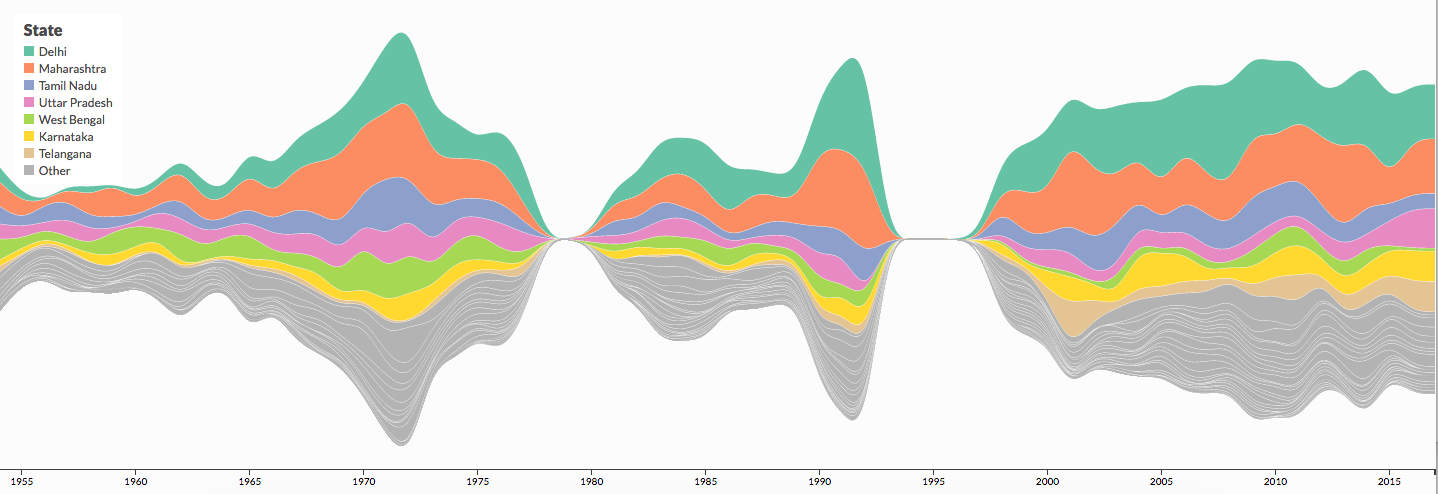
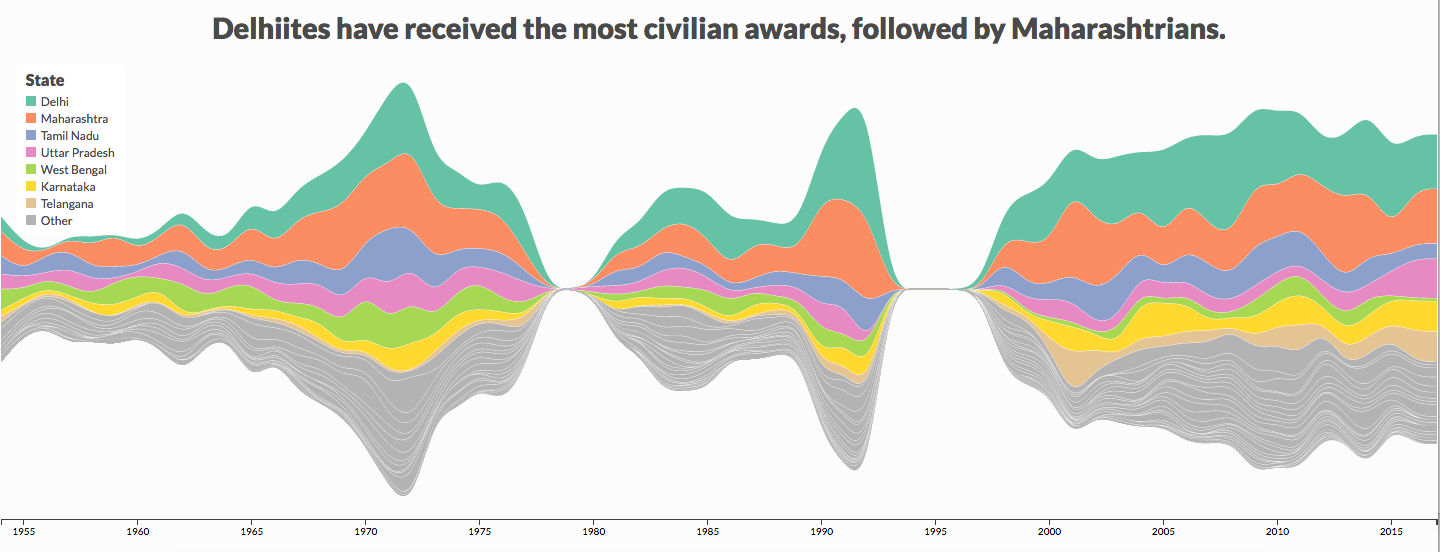
production v1

diff --git a/index.html b/index.html
@@ -8,7 +8,7 @@
     <title>India's civilian awards, a visual history | Hindustan Times</title>
 
     <meta name="description" content="Why do so many Delhiites and Mumbaikars win Padma awards?" />
-    <meta name="keywords" content="Padma awards, Bharat Ratna, Padma Vibhushan, Padma Bhushan, Padma Shri" />
+    <meta name="keywords" content="Padma awards, Bharat Ratna, Padma Vibhushan, Padma Bhushan, Padma Shri, Sachin Tendulkar, Amir Khan, Mother Teresa, Nelson Mandela, Lata Mangeshkar, Yash Chopra, Satyajit Ray, M.S. Subbalakshmi, Kiran Mazumdar-Shaw" />
     <link rel="canonical" content="http://www.hindustantimes.com/static/padmas-visual-history/" />
 
     <!-- facebook -->
@@ -38,7 +38,7 @@
     <!--css-->
     <link rel="stylesheet" href="https://maxcdn.bootstrapcdn.com/bootstrap/3.3.6/css/bootstrap.min.css" integrity="sha384-1q8mTJOASx8j1Au+a5WDVnPi2lkFfwwEAa8hDDdjZlpLegxhjVME1fgjWPGmkzs7" crossorigin="anonymous">
     <link rel="stylesheet" href="css/font-awesome.min.css" />
-    <link rel="stylesheet" href="css/styles.css" />
+    <link rel="stylesheet" href="css/styles.min.css" />
 
     <!--jquery -->
     <script src="https://ajax.googleapis.com/ajax/libs/jquery/3.1.0/jquery.min.js"></script>
@@ -64,13 +64,13 @@
 
       <div class="row">
         <div class="col-md-12 headline">
-          India's civilian awards, a visual history
+          India&rsquo;s civilian awards, a visual history
         </div>
       </div>
 
       <div class="row">
         <div class="col-md-12 byline">
-          By Harry Stevens
+          By Harry Stevens &amp; Aparna Alluri
         </div>
       </div>
 
@@ -82,7 +82,8 @@
 
       <div class="row copy">
         <div class="col-md-offset-3 col-md-6">
-          <p>Nearly every year, the Indian government honors its leading citizens with awards. But who gets them? And what does their distribution tell us about the country and its history?</p>
+          <p>Since 1954, the Indian government has been conferring its highest honours &mdash; from the venerable Padma Shri to the exclusive Bharat Ratna &mdash; on bureaucrats, artists, scientists, engineers, sporting heroes, and political icons. </p>
+          <p>Taken together, the 4,329 awards paint a picture of India&rsquo;s recent history and tell a story about the country&rsquo;s values and priorities.</p>
           <hr />
         </div>
       </div>
@@ -94,7 +95,7 @@
         <div class="col-md-12">
           <div class="row chart-title">
             <div class="col-md-12">
-              Delhiites &amp; Maharashtrians have dominated the awards.
+              Delhiites have received the most awards, followed by Maharashtrians.
             </div>
           </div>
           <div class="row">
@@ -104,15 +105,9 @@
           </div>
           <div class="row copy">
             <div class="col-md-offset-3 col-md-6">
-              <p>
-                Lorem ipsum dolor sit amet. Lorem ipsum dolor sit amet. Lorem ipsum dolor sit amet. Lorem ipsum dolor sit amet. Lorem ipsum dolor sit amet. Lorem ipsum dolor sit amet.
-              </p>
-              <p>
-                Lorem ipsum dolor sit amet. Lorem ipsum dolor sit amet. Lorem ipsum dolor sit amet. Lorem ipsum dolor sit amet. Lorem ipsum dolor sit amet. Lorem ipsum dolor sit amet.
-              </p>
-              <p>
-                Lorem ipsum dolor sit amet. Lorem ipsum dolor sit amet. Lorem ipsum dolor sit amet. Lorem ipsum dolor sit amet. Lorem ipsum dolor sit amet. Lorem ipsum dolor sit amet.
-              </p>
+              <p>With 797 awards, the national capital has bagged more honours than any other state. Only Maharashtra, at 756, comes close to Delhi&rsquo;s tally. Next in line is Tamil Nadu, but it&rsquo;s farther behind with 391 awards. </p>
+              <p>Delhi and Maharashtra have also dominated the honours rather consistently (hover over each color to find out how many states won awards in a given year). </p>
+              <p>There were no awards given out in six years: 1978, 1979 and from 1993-1996. It&rsquo;s likely the <a href="http://www.newindianexpress.com/nation/All-Should-%E2%80%98Learn-Lesson%E2%80%99-From-Aftermath-of-Emergency-Says-Digvijay-Singh/2015/06/25/article2885877.ece">aftermath of the Emergency</a> interrupted the awards in the late 70s. In the mid-90s, it could have been a preoccupied minority government that was busy pushing for economic reforms to stave off bankruptcy.</p>
             </div>
           </div>
         </div>
@@ -126,7 +121,7 @@
       <div class="col-md-12">
         <div class="row chart-title">
           <div class="col-md-12">
-            Foreigners get civilian awards, too.
+            India awards foreigners, too.
           </div>
         </div>
         <div class="row">
@@ -137,15 +132,8 @@
         </div>
         <div class="row copy">
           <div class="col-md-offset-3 col-md-6">
-            <p>
-              Lorem ipsum dolor sit amet. Lorem ipsum dolor sit amet. Lorem ipsum dolor sit amet. Lorem ipsum dolor sit amet. Lorem ipsum dolor sit amet. Lorem ipsum dolor sit amet.
-            </p>
-            <p>
-              Lorem ipsum dolor sit amet. Lorem ipsum dolor sit amet. Lorem ipsum dolor sit amet. Lorem ipsum dolor sit amet. Lorem ipsum dolor sit amet. Lorem ipsum dolor sit amet.
-            </p>
-            <p>
-              Lorem ipsum dolor sit amet. Lorem ipsum dolor sit amet. Lorem ipsum dolor sit amet. Lorem ipsum dolor sit amet. Lorem ipsum dolor sit amet. Lorem ipsum dolor sit amet.
-            </p>
+            <p>Americans have gotten more awards than any foreign nationality, followed by Britons. The number of non-Indian awardees began to climb after 1995, possibly because <a href="https://en.wikipedia.org/wiki/Economic_liberalisation_in_India">opening up India&rsquo;s economy</a> signalled a new era of diplomacy. </p>
+            <p>Foreign winners include Nelson Mandela and Pashtun political activist Abdul Ghaffar Khan. Richard Attenborough and Ben Kingsley both won Padma awards after the release of the film Gandhi. Many of these awards were also given to people of Indian origin, such as Nobel Prize-winning economist Amartya Sen.</p>
           </div>
         </div>
       </div>
@@ -156,7 +144,7 @@
       <div class="col-md-12">
         <div class="row chart-title">
           <div class="col-md-12">
-            Women receive far fewer awards than men do.
+            Most of the awards have gone to men.
           </div>
         </div>
         <div class="row">
@@ -166,15 +154,8 @@
         </div>
         <div class="row copy">
           <div class="col-md-offset-3 col-md-6">
-            <p>
-              Lorem ipsum dolor sit amet. Lorem ipsum dolor sit amet. Lorem ipsum dolor sit amet. Lorem ipsum dolor sit amet. Lorem ipsum dolor sit amet. Lorem ipsum dolor sit amet.
-            </p>
-            <p>
-              Lorem ipsum dolor sit amet. Lorem ipsum dolor sit amet. Lorem ipsum dolor sit amet. Lorem ipsum dolor sit amet. Lorem ipsum dolor sit amet. Lorem ipsum dolor sit amet.
-            </p>
-            <p>
-              Lorem ipsum dolor sit amet. Lorem ipsum dolor sit amet. Lorem ipsum dolor sit amet. Lorem ipsum dolor sit amet. Lorem ipsum dolor sit amet. Lorem ipsum dolor sit amet.
-            </p>
+            <p>Of the 4,329 honours, men have won 3,689 awards while women got 631 awards, which is just less than 15 percent.</p>
+            <p>This isn&rsquo;t surprising, given India&rsquo;s <a href="http://www.hindustantimes.com/editorials/india-must-close-the-gender-gap-and-make-every-woman-count/story-ZvTJvLI7NQqymWKFvgscSK.html">wide gaps in gender equality</a>. There are far fewer women than men in public life, from <a href="http://www.ibtimes.com/where-boys-are-vastly-underrepresented-indian-women-demanding-greater-participation-politics-1565797">politics</a> to <a href="http://www.hindustantimes.com/education/only-6-67-indian-institutes-headed-by-women-report/story-YXgkKKg64HlWlED5pop3WP.html">academia</a>. India ranks 130th of 155 countries on the <a href="http://hdr.undp.org/en/composite/GII">UN Development Programme&rsquo;s Gender Inequality Index</a>.</p>
           </div>
         </div>
       </div>
@@ -185,7 +166,7 @@
       <div class="col-md-12">
         <div class="row chart-title">
           <div class="col-md-12">
-            The government prefers to honor India&rsquo;s artists and writers.
+            The arts are a favorite.
           </div>
         </div>
         <div class="row">
@@ -195,15 +176,8 @@
         </div>
         <div class="row copy">
           <div class="col-md-offset-3 col-md-6">
-            <p>
-              Lorem ipsum dolor sit amet. Lorem ipsum dolor sit amet. Lorem ipsum dolor sit amet. Lorem ipsum dolor sit amet. Lorem ipsum dolor sit amet. Lorem ipsum dolor sit amet.
-            </p>
-            <p>
-              Lorem ipsum dolor sit amet. Lorem ipsum dolor sit amet. Lorem ipsum dolor sit amet. Lorem ipsum dolor sit amet. Lorem ipsum dolor sit amet. Lorem ipsum dolor sit amet.
-            </p>
-            <p>
-              Lorem ipsum dolor sit amet. Lorem ipsum dolor sit amet. Lorem ipsum dolor sit amet. Lorem ipsum dolor sit amet. Lorem ipsum dolor sit amet. Lorem ipsum dolor sit amet.
-            </p>
+            <p>Actors, musicians and artists got the most awards (930), followed closely by writers and educators (852). Awarding great artists is not just good sense, it&rsquo;s good politics, too: for a sitting politician, it never hurts to be associated with popular cultural icons.</p>
+            <p>The arts list includes Western classical conductor Zubin Mehta, sarod virtuoso Amjad Ali Khan, filmmakers Mehboob Khan and Satyajit Ray, Indian classical dancer Mrinalini Sarabhai, Carnatic musicians D.K. Pattamal, and actors Smita Patil, Aamir Khan and K. Chiranjeevi. Kannada novelist and playwright Dr. Kuppali Puttappa, poet Jayanta Mahapatra, and Urdu writer Ismat Chughtai are among the writers who won.</p>
             <hr />
           </div>
         </div>
@@ -224,25 +198,12 @@
       </div>
     </div>
 
-    <div class="row copy">
-      <div class="col-md-offset-3 col-md-6">
-        <p>
-          Lorem ipsum dolor sit amet. Lorem ipsum dolor sit amet. Lorem ipsum dolor sit amet. Lorem ipsum dolor sit amet. Lorem ipsum dolor sit amet. Lorem ipsum dolor sit amet.
-        </p>
-        <p>
-          Lorem ipsum dolor sit amet. Lorem ipsum dolor sit amet. Lorem ipsum dolor sit amet. Lorem ipsum dolor sit amet. Lorem ipsum dolor sit amet. Lorem ipsum dolor sit amet.
-        </p>
-        <p>
-          Lorem ipsum dolor sit amet. Lorem ipsum dolor sit amet. Lorem ipsum dolor sit amet. Lorem ipsum dolor sit amet. Lorem ipsum dolor sit amet. Lorem ipsum dolor sit amet.
-        </p>
-      </div>
-    </div>
 
     <div class="row">
       <div class="col-md-12">
         <div class="row chart-title">
           <div class="col-md-12">
-            Maharashtra, home of Bollywood, dominates the arts.
+            Maharashtra dominates the arts awards.
           </div>
         </div>
         <div class="row">
@@ -254,13 +215,7 @@
         <div class="row copy">
           <div class="col-md-offset-3 col-md-6">
             <p>
-              Lorem ipsum dolor sit amet. Lorem ipsum dolor sit amet. Lorem ipsum dolor sit amet. Lorem ipsum dolor sit amet. Lorem ipsum dolor sit amet. Lorem ipsum dolor sit amet.
-            </p>
-            <p>
-              Lorem ipsum dolor sit amet. Lorem ipsum dolor sit amet. Lorem ipsum dolor sit amet. Lorem ipsum dolor sit amet. Lorem ipsum dolor sit amet. Lorem ipsum dolor sit amet.
-            </p>
-            <p>
-              Lorem ipsum dolor sit amet. Lorem ipsum dolor sit amet. Lorem ipsum dolor sit amet. Lorem ipsum dolor sit amet. Lorem ipsum dolor sit amet. Lorem ipsum dolor sit amet.
+              Home to Bollywood, a robust theatre scene, and a rich classical music tradition, Maharashtra fares the best in this category. Tamil Nadu, known for its successful film industry and Carnatic music legends, isn&rsquo;t far behind. The wildly popular, actor-turned politician M. G. Ramachandran is amongst the winners.
             </p>
           </div>
         </div>
@@ -271,7 +226,7 @@
       <div class="col-md-12">
         <div class="row chart-title">
           <div class="col-md-12">
-            In the arts, the gender distribution is more equal.
+            Women do better in the arts than in other fields.
           </div>
         </div>
         <div class="row">
@@ -282,15 +237,8 @@
         </div>
         <div class="row copy">
           <div class="col-md-offset-3 col-md-6">
-            <p>
-              Lorem ipsum dolor sit amet. Lorem ipsum dolor sit amet. Lorem ipsum dolor sit amet. Lorem ipsum dolor sit amet. Lorem ipsum dolor sit amet. Lorem ipsum dolor sit amet.
-            </p>
-            <p>
-              Lorem ipsum dolor sit amet. Lorem ipsum dolor sit amet. Lorem ipsum dolor sit amet. Lorem ipsum dolor sit amet. Lorem ipsum dolor sit amet. Lorem ipsum dolor sit amet.
-            </p>
-            <p>
-              Lorem ipsum dolor sit amet. Lorem ipsum dolor sit amet. Lorem ipsum dolor sit amet. Lorem ipsum dolor sit amet. Lorem ipsum dolor sit amet. Lorem ipsum dolor sit amet.
-            </p>
+            <p>In the arts, the gender distribution is more equal, a reflection of the greater role women play in the arts than in other areas of public life. From the 1950s, when Carnatic vocalist M.S. Subbalakshmi and actor Nargis were given Padma awards, until 2016 when Girija Devi was awarded the Padma Vibhushan, women have won 235 of the 930 arts awards.</p>
+            <p>Only five women &mdash; Subbalakshmi, Lata Mangeshkar, Aruna Asaf Ali, Indira Gandhi, and Mother Theresa &mdash; have been awarded a Bharat Ratna, India&rsquo;s highest civilian honor.</p>
             <hr />
           </div>
         </div>
@@ -312,25 +260,11 @@
       </div>
     </div>
 
-    <div class="row copy">
-      <div class="col-md-offset-3 col-md-6">
-        <p>
-          Lorem ipsum dolor sit amet. Lorem ipsum dolor sit amet. Lorem ipsum dolor sit amet. Lorem ipsum dolor sit amet. Lorem ipsum dolor sit amet. Lorem ipsum dolor sit amet.
-        </p>
-        <p>
-          Lorem ipsum dolor sit amet. Lorem ipsum dolor sit amet. Lorem ipsum dolor sit amet. Lorem ipsum dolor sit amet. Lorem ipsum dolor sit amet. Lorem ipsum dolor sit amet.
-        </p>
-        <p>
-          Lorem ipsum dolor sit amet. Lorem ipsum dolor sit amet. Lorem ipsum dolor sit amet. Lorem ipsum dolor sit amet. Lorem ipsum dolor sit amet. Lorem ipsum dolor sit amet.
-        </p>
-      </div>
-    </div>
-
     <div class="row">
       <div class="col-md-12">
         <div class="row chart-title">
           <div class="col-md-12">
-            Maharashtrians receive the most science awards.
+            Maharashtra also wins the most science awards.
           </div>
         </div>
         <div class="row">
@@ -341,15 +275,8 @@
         </div>
         <div class="row copy">
           <div class="col-md-offset-3 col-md-6">
-            <p>
-              Lorem ipsum dolor sit amet. Lorem ipsum dolor sit amet. Lorem ipsum dolor sit amet. Lorem ipsum dolor sit amet. Lorem ipsum dolor sit amet. Lorem ipsum dolor sit amet.
-            </p>
-            <p>
-              Lorem ipsum dolor sit amet. Lorem ipsum dolor sit amet. Lorem ipsum dolor sit amet. Lorem ipsum dolor sit amet. Lorem ipsum dolor sit amet. Lorem ipsum dolor sit amet.
-            </p>
-            <p>
-              Lorem ipsum dolor sit amet. Lorem ipsum dolor sit amet. Lorem ipsum dolor sit amet. Lorem ipsum dolor sit amet. Lorem ipsum dolor sit amet. Lorem ipsum dolor sit amet.
-            </p>
+            <p>With some of the country&rsquo;s leading colleges for science, such as St. Xavier&rsquo;s College in Mumbai and Fergusson College in Pune, Maharashtra has long produced some of India&rsquo;s best scientists and engineers.</p>
+            <p>In recent years, scientists from Karnataka have begun to receive more awards. This year, for instance, V.K. Aatre, former head of the Defence Research and Development Organisation, won his second Padma award.</p>
           </div>
         </div>
       </div>
@@ -362,7 +289,7 @@
       <div class="col-md-12">
         <div class="row chart-title">
           <div class="col-md-12">
-            Almost all the science awards are won by men.
+            Women fare the worst in science.
           </div>
         </div>
         <div class="row">
@@ -372,15 +299,8 @@
         </div>
         <div class="row copy">
           <div class="col-md-offset-3 col-md-6">
-            <p>
-              Lorem ipsum dolor sit amet. Lorem ipsum dolor sit amet. Lorem ipsum dolor sit amet. Lorem ipsum dolor sit amet. Lorem ipsum dolor sit amet. Lorem ipsum dolor sit amet.
-            </p>
-            <p>
-              Lorem ipsum dolor sit amet. Lorem ipsum dolor sit amet. Lorem ipsum dolor sit amet. Lorem ipsum dolor sit amet. Lorem ipsum dolor sit amet. Lorem ipsum dolor sit amet.
-            </p>
-            <p>
-              Lorem ipsum dolor sit amet. Lorem ipsum dolor sit amet. Lorem ipsum dolor sit amet. Lorem ipsum dolor sit amet. Lorem ipsum dolor sit amet. Lorem ipsum dolor sit amet.
-            </p>
+            <p>Hardly any women have won awards for scientific achievement in the last 60 years; by contrast, as many as 22 men have won awards for science or engineering in a single year. Whether because of expectations from their families or concerns about their safety, <a href="http://aif.org/2014/08/the-3-biggest-reasons-that-indias-girls-drop-out-of-school/">girls continue to miss out on educational opportunities</a>. </p>
+            <p>Some notable female winners in the science and engineering category are gynecologist Indira Hinduja, Biocon Limited chairman Kiran Mazumdar-Shaw, and parasitologist Veena Tandon, who received the Padma Shri this year.</p>
             <hr />
           </div>
         </div>
@@ -402,25 +322,11 @@
       </div>
     </div>
 
-    <div class="row copy">
-      <div class="col-md-offset-3 col-md-6">
-        <p>
-          Lorem ipsum dolor sit amet. Lorem ipsum dolor sit amet. Lorem ipsum dolor sit amet. Lorem ipsum dolor sit amet. Lorem ipsum dolor sit amet. Lorem ipsum dolor sit amet.
-        </p>
-        <p>
-          Lorem ipsum dolor sit amet. Lorem ipsum dolor sit amet. Lorem ipsum dolor sit amet. Lorem ipsum dolor sit amet. Lorem ipsum dolor sit amet. Lorem ipsum dolor sit amet.
-        </p>
-        <p>
-          Lorem ipsum dolor sit amet. Lorem ipsum dolor sit amet. Lorem ipsum dolor sit amet. Lorem ipsum dolor sit amet. Lorem ipsum dolor sit amet. Lorem ipsum dolor sit amet.
-        </p>
-      </div>
-    </div>
-
     <div class="row">
       <div class="col-md-12">
         <div class="row chart-title">
           <div class="col-md-12">
-            Civil service awards used to be much more common.
+            Civil service awards used to be far more common.
           </div>
         </div>
         <div class="row">
@@ -430,15 +336,8 @@
         </div>
         <div class="row copy">
           <div class="col-md-offset-3 col-md-6">
-            <p>
-              Lorem ipsum dolor sit amet. Lorem ipsum dolor sit amet. Lorem ipsum dolor sit amet. Lorem ipsum dolor sit amet. Lorem ipsum dolor sit amet. Lorem ipsum dolor sit amet.
-            </p>
-            <p>
-              Lorem ipsum dolor sit amet. Lorem ipsum dolor sit amet. Lorem ipsum dolor sit amet. Lorem ipsum dolor sit amet. Lorem ipsum dolor sit amet. Lorem ipsum dolor sit amet.
-            </p>
-            <p>
-              Lorem ipsum dolor sit amet. Lorem ipsum dolor sit amet. Lorem ipsum dolor sit amet. Lorem ipsum dolor sit amet. Lorem ipsum dolor sit amet. Lorem ipsum dolor sit amet.
-            </p>
+            <p>In 1972, the Indian government distributed 52 awards for civil service. That&rsquo;s more than all of the civil service awards given out since the year 2000. Civil servants just don&rsquo;t get the recognition they used to. </p>
+            <p>It&rsquo;s hard to say why this has happened, but it&rsquo;s possible that a burgeoning private sector has reduced the role of the bureaucracy in India. </p>
             <hr />
             <p class="source">Source: <a href="http://mha.nic.in/awards_medals">Ministry of Home Affairs</a>
             </div>
@@ -457,7 +356,7 @@
           </div>
           <div class="row related-links-wrapper">
             <div class="col-md-4 col-sm-4 related-story">
-              <a href="http://www.hindustantimes.com/static/padmas-visual-history/">
+              <a href="http://www.hindustantimes.com/static/olympics/longest-world-record/">
                 <div class="row related-story-image-wrapper">
                   <div class="col-md-12">
                     <img class="img-responsive" src="http://www.hindustantimes.com/rw/HT/p2/2016/08/25/Pictures/_3eac295c-6a7e-11e6-8382-bd2fa398f652.png"/>
@@ -465,7 +364,7 @@
                 </div>
                 <div class="row related-story-headline">
                   <div class="col-md-12">
-                    India's civilian awards, a visual history
+                    Who holds the world record for the longest-held world record?
                   </div>
                 </div>
                 <div class="row related-story-dateline">
@@ -562,7 +461,7 @@
     <script src="js/d3.v2.min.js"></script>
     <script src="js/underscore.min.js"></script>
     <script src="js/moment.min.js"></script>
-    <script src="js/scripts.js"></script>
+    <script src="js/scripts.min.js"></script>
 
 
     <!-- analytics -->

diff --git a/js/scripts.min.js b/js/scripts.min.js
@@ -1,0 +1,1 @@
+function breakCalc(a){return a<=480?y="xs":y="md",y}function breakHeight(a){return"xs"==a?y=250:y=500,y}function logoSrc(){"xs"==breakpoint?img="img/ht-logo-sq.png":img="img/navlogo.png",$(".navbar-brand img").attr("src",img)}function isScrolledIntoView(a){var b=$(window).scrollTop(),c=b+$(window).height(),d=$(a).offset().top,e=d+$(a).height();return e<=c&&d>=b}function Utils(){}function awardPlural(a){return 1==a?y="award":y="awards",y}function century(a){return a<100?y="19"+a:y="20"+a.toString().substring(1),y}function tipX(a){var b=$(window).width(),c=$(".tip").width();return"xs"==breakpoint?a>b-c-20?y=a-c:y=a:a>b-c-30?y=a-45-c:y=a+10,y}function chart(a,b,c){function t(a){function d(a,b){return"gender"==b?"Gender":"place"==b?"india"==a?"State":"Country":"state"==b?"State / Country":"field"==b||"area"==b?"Discipline":void 0}$(".chart."+c+"."+b).prepend('<div class="legend"><div class="title">'+d(b,c)+"</div></div>"),$(".legend").hide();var f=[];a.forEach(function(a,b){var c={};b<7&&(c.key=a.key,c.color=e[b],f.push(c))}),a.length>7&&f.push({key:"Other",color:"#b3b3b3"}),f.forEach(function(a,d){$(".chart."+c+"."+b+" .legend").append('<div class="item"><div class="swatch" style="background: '+a.color+'"></div>'+a.key+"</div>")}),$(".legend").fadeIn()}function u(d){var e,f={};f[a]=b,e="none"==a?d:_.where(d,f);for(var g=_.chain(e).countBy(c).pairs().sortBy(1).reverse().pluck(0).value(),h=_.sortBy(e,g),i=_.groupByMulti(h,["year",c]),j=[],k=1954;k<2018;k++){var l=i[k];void 0==l&&(l={}),g.forEach(function(a){var b={};void 0==l[a]?(b.key=a,b.value=0,b.date=moment(k.toString())._d):(b.key=l[a][0][c],b.value=l[a].length,b.date=moment(l[a][0].year)._d),j.push(b)})}return d=j}var d="data/awards.csv",e=["#66c2a5","#fc8d62","#8da0cb","#e78ac3","#a6d854","#ffd92f","#e5c494","#b3b3b3","#b3b3b3","#b3b3b3","#b3b3b3","#b3b3b3","#b3b3b3","#b3b3b3","#b3b3b3","#b3b3b3","#b3b3b3","#b3b3b3","#b3b3b3","#b3b3b3","#b3b3b3","#b3b3b3","#b3b3b3","#b3b3b3","#b3b3b3","#b3b3b3","#b3b3b3","#b3b3b3","#b3b3b3","#b3b3b3","#b3b3b3","#b3b3b3","#b3b3b3","#b3b3b3","#b3b3b3","#b3b3b3","#b3b3b3","#b3b3b3","#b3b3b3","#b3b3b3","#b3b3b3","#b3b3b3","#b3b3b3","#b3b3b3","#b3b3b3","#b3b3b3","#b3b3b3","#b3b3b3","#b3b3b3","#b3b3b3","#b3b3b3","#b3b3b3","#b3b3b3","#b3b3b3","#b3b3b3","#b3b3b3","#b3b3b3","#b3b3b3","#b3b3b3","#b3b3b3","#b3b3b3","#b3b3b3","#b3b3b3","#b3b3b3","#b3b3b3","#b3b3b3","#b3b3b3","#b3b3b3","#b3b3b3","#b3b3b3","#b3b3b3","#b3b3b3","#b3b3b3","#b3b3b3","#b3b3b3","#b3b3b3","#b3b3b3","#b3b3b3","#b3b3b3","#b3b3b3","#b3b3b3","#b3b3b3","#b3b3b3","#b3b3b3","#b3b3b3","#b3b3b3","#b3b3b3","#b3b3b3","#b3b3b3","#b3b3b3","#b3b3b3","#b3b3b3","#b3b3b3"],g={top:20,right:1,bottom:30,left:0},h=$(".chart-wrapper").width()-g.left-g.right,i=breakHeight(breakpoint)-g.top-g.bottom,j=$(".chart."+c+"."+b).offset().top,k=d3.select("body").append("div").attr("class","tip").style("position","absolute").style("z-index","20").style("visibility","hidden").style("top",40+j+"px"),l=d3.time.scale().range([0,h]),m=d3.scale.linear().range([i-10,0]),n=d3.scale.ordinal().range(e),o=d3.svg.axis().scale(l).orient("bottom").ticks(d3.time.years,5),p=d3.layout.stack().offset("silhouette").order("reverse").values(function(a){return a.values}).x(function(a){return a.date}).y(function(a){return a.value}),q=d3.nest().key(function(a){return a.key}),r=d3.svg.area().interpolate("basis").x(function(a){return l(a.date)}).y0(function(a){return m(a.y0)-.2}).y1(function(a){return m(a.y0+a.y)+.2}),s=d3.select(".chart."+c+"."+b).append("svg").attr("width",h+g.left+g.right).attr("height",i+g.top+g.bottom).append("g").attr("transform","translate("+g.left+","+g.top+")");d3.csv(d,function(a){a=u(a);var d=p(q.entries(a));t(d),l.domain(d3.extent(a,function(a){return a.date})),m.domain([0,d3.max(a,function(a){return a.y0+a.y})]),s.selectAll(".layer").data(d).enter().append("path").attr("class","layer").attr("d",function(a){return r(a.values)}).style("fill",function(a,b){return n(b)}),s.append("g").attr("class","x axis").attr("transform","translate(0,"+i+")").call(o),"xs"==breakpoint&&$(".x.axis text").each(function(){var a=$(this).text(),b="'"+a.substr(2);$(this).text(b)}),s.selectAll(".layer").attr("opacity",1).on("mouseover",function(a,b){s.selectAll(".layer").transition().duration(100).attr("opacity",function(a,c){return c!=b?.6:1})}).on("mousemove",function(a,b){var c=d3.select(this).style("fill");mouse=d3.mouse(this),mousex=mouse[0];var d=l.invert(mousex),e=century(d.getYear());a.values.forEach(function(a){var b=a.date.toString().split(" ")[3];e==b&&k.style("left",tipX(mousex)+"px").html("<div class='year'>"+b+"</div><div class='key'><div style='background:"+c+"' class='swatch'>&nbsp;</div>"+a.key+"</div><div class='value'>"+a.value+" "+awardPlural(a.value)+"</div>").style("visibility","visible")})}).on("mouseout",function(a,b){s.selectAll(".layer").transition().duration(100).attr("opacity","1"),k.style("visibility","hidden")});var e=d3.select(".chart."+c+"."+b).append("div").attr("class","remove").style("position","absolute").style("z-index","19").style("width","2px").style("height","460px").style("top","10px").style("bottom","30px").style("left","0px").style("background","#fcfcfc");d3.select(".chart."+c+"."+b).on("mousemove",function(){mousex=d3.mouse(this),mousex=mousex[0]+5,e.style("left",mousex+"px")}).on("mouseover",function(){mousex=d3.mouse(this),mousex=mousex[0]+5,e.style("left",mousex+"px")});var g=(s.append("rect").attr("x",-1*h).attr("y",-1*i).attr("height",i).attr("width",h).attr("class","curtain").attr("transform","rotate(180)").style("fill","#fcfcfc"),s.transition().delay(100).duration(1500).ease("exp").each("end",function(){d3.select("line.guide").transition().style("opacity",0).remove()}));g.select("rect.curtain").attr("width",0),g.select("line.guide").attr("transform","translate("+h+", 0)")})}var breakpoint=breakCalc($(window).width());$(window).resize(function(){breakCalc($(window).width())}),logoSrc(),$(window).resize(function(){logoSrc()});var url=window.location.href,twitterShare="https://twitter.com/home?status=A visual history of India's top civilian awards "+url+" %23PadmaAwards @htTweets";$(".twitter-share").attr("href",twitterShare);var facebookShare="https://www.facebook.com/sharer/sharer.php?u="+url;$(".facebook-share").attr("href",facebookShare),Utils.prototype={constructor:Utils,isElementInView:function(a,b){var c=$(window).scrollTop(),d=c+$(window).height(),e=$(a).offset().top,f=e+$(a).height();return b===!0?c<e&&d>f:f<=d&&e>=c}};var Utils=new Utils;_.groupByMulti=function(a,b,c){if(!b.length)return a;var d=_.groupBy(a,b[0],c),e=b.slice(1);for(var f in d)d[f]=_.groupByMulti(d[f],e,c);return d};var colorrange=[];$(".chart").each(function(a){var b=$(this).attr("column"),c=$(this).attr("groupBy"),d=$(this).attr("filterBy");$(this).addClass(c).addClass(d),0==a&&chart(b,d,c)}),$(window).scroll(function(){$(".chart").each(function(a){var b=$(this).height();if(0==b){var c=$(this).attr("column"),d=$(this).attr("groupBy"),e=$(this).attr("filterBy"),f=Utils.isElementInView($(this),!1);f&&$(this)&&chart(c,e,d)}})});

diff --git a/css/styles.min.css b/css/styles.min.css
@@ -1,0 +1,1 @@
+body,html{overflow-x:hidden}.headline,body{font-family:Lato,sans-serif}.byline,.chart-title,.dateline,.headline,.section{text-align:center}body{font-size:16px;color:#4a4a4a;background-color:#fcfcfc;margin-top:50px}hr{width:60%;border-top-color:#ccc;margin-top:30px;margin-bottom:30px}a{color:#2990b9}a:hover{color:#2c3e50}.navbar{height:40px;min-height:40px;border-radius:0;border:0}.legend,.tip{background-color:hsla(0,0%,100%,.9);border-radius:5px}.navbar-brand{height:40px;padding-top:10px;z-index:1000}.navbar-title{display:none}.navbar-share{padding-top:5px;float:right;font-size:20px}.navbar-share a{color:#9d9d9d;text-decoration:none}.navbar-share a:hover{color:#fff}.navbar-share i{margin-left:15px}.headline{font-weight:900;font-size:3em;line-height:1.4em;margin-bottom:20px}.byline{font-size:1.4em}.copy p,.dateline{font-size:1.1em;font-weight:300}.dateline{margin-bottom:30px}.copy p{margin-bottom:20px;line-height:1.6em;font-family:Merriweather,sans-serif}.chart,.section .title{margin-bottom:10px}p.source{font-size:.9em;color:#999;font-family:Lato,sans-serif;font-weight:400}.section .image{font-size:5em;line-height:1em}.section .title{font-weight:300;font-size:2.2em}.chart-wrapper{margin-left:-.99%;width:102%}.chart-title{font-size:1.8em;font-weight:900}.legend .title,.tip .year{margin-bottom:2px;font-weight:900}.axis line,.axis path{fill:none;stroke:#3a403d;stroke-width:1px;shape-rendering:crispEdges}.axis text{font-size:.625em}.chart .layer{cursor:crosshair}.tip{padding:10px;font-size:1em;width:180px}.tip .year{font-size:1.25em}.tip .swatch{width:11px;height:11px;float:left;margin-top:6px;margin-right:4px}.legend{position:absolute;top:15px;left:30px;padding:5px 10px}.legend .item{font-size:.75em}.legend .swatch{width:10px;height:10px;margin-top:3px;float:left;margin-right:5px}.related-wrapper a{cursor:pointer}.related-title{margin-top:20px;border-top:2px solid #3a403d;padding-top:5px;padding-bottom:5px;font-size:1.8em;font-weight:900}.related-story-image-wrapper{margin-bottom:5px}.related-story-headline{font-size:1.1em}.related-story-dateline{font-size:.9em;color:#777}footer{margin-bottom:-30px}.footer-basic-centered{background-color:#222;color:#fff;box-shadow:0 1px 1px 0 rgba(0,0,0,.12);box-sizing:border-box;width:100%;text-align:center;font:400 18px Lato,sans-serif;padding:40px;margin-top:40px}footer a{color:#fff!important}@media only screen and (max-width :480px){.legend .title,.remove{display:none}.navbar-brand img{width:25px}.navbar-share{margin-top:-35px;padding-top:0}.headline{font-family:Lato,sans-serif;font-weight:900;font-size:2.2em;line-height:1.2em;margin-bottom:20px;margin-top:20px}.legend .swatch,.tip .swatch{margin-top:3.5px}.copy p{font-size:1em}.chart-wrapper{margin-left:-15px;margin-right:-15px;width:auto}.chart-title{font-size:1.4em}.tip{width:100px}.tip .year{font-size:1em}.tip .key,.tip .value{font-size:.75em}.tip .swatch{width:10px;height:10px}.legend{position:static;background-color:#fcfcfc}.legend .item{float:left;margin-right:10px}.related-story{margin-bottom:30px}}

diff --git a/css/styles.css b/css/styles.css
@@ -82,7 +82,7 @@ a:hover {
   font-family: "Merriweather", sans-serif;
 }
 .copy p a {
-	font-weight: 900;
+
 }
 p.source {
 	font-size: .9em;
@@ -114,6 +114,9 @@ p.source {
 	text-align: center;
 	font-size: 1.8em;
 	font-weight: 900;
+}
+.chart {
+	margin-bottom: 10px;
 }
 
 /*AXES*/
